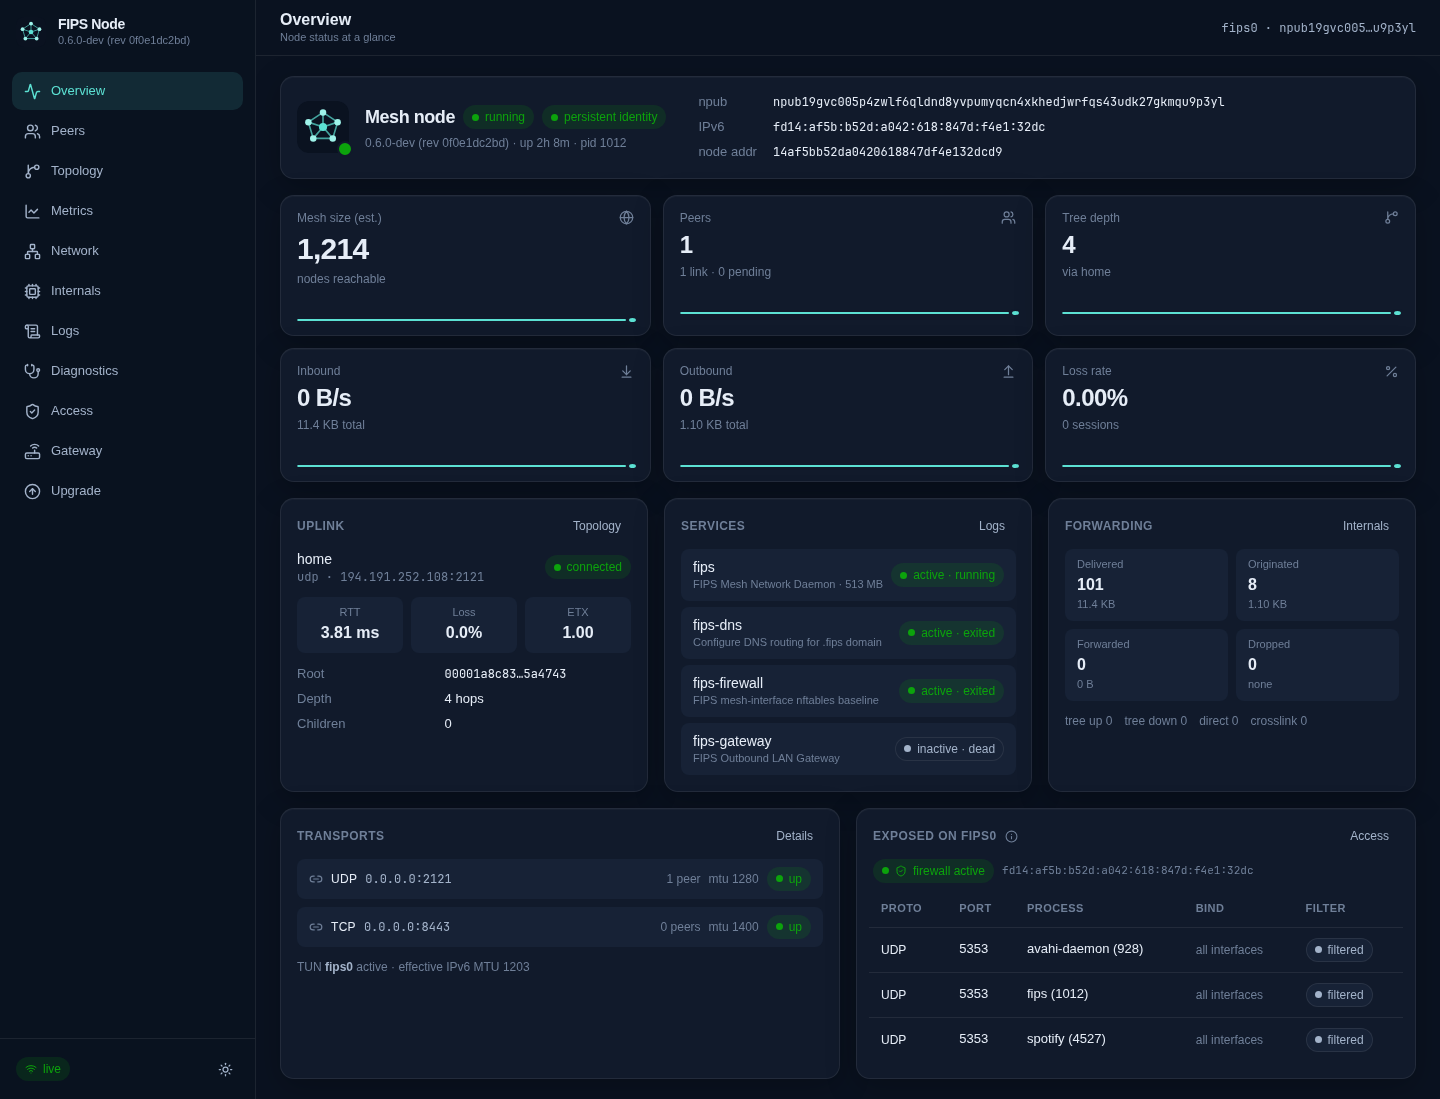
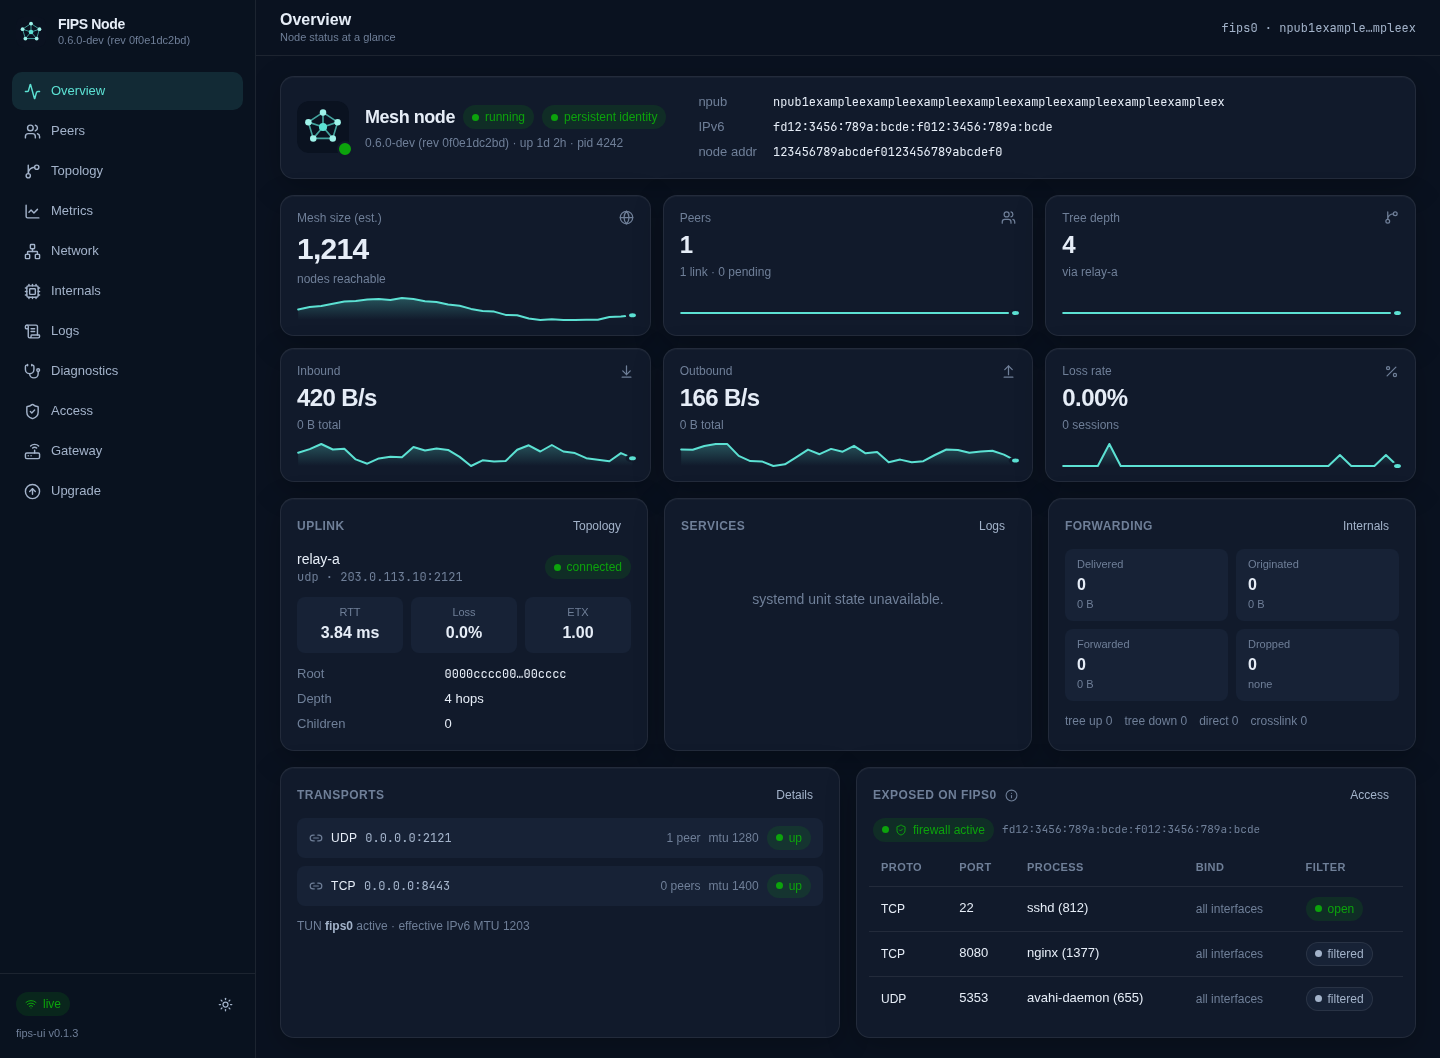
Replace node-specific data in screenshots and docs with placeholders
The README screenshots showed this node's npub, mesh and node addresses,
its peer's npub and public IP:port, tree coordinates, local processes and
the distro package. They are regenerated against a fake control socket
with placeholder identities (TEST-NET-3 address for the peer endpoint).
Genericise the hostname example in the README and the revision examples
in upgrade.ts comments.

diff --git a/server/upgrade.ts b/server/upgrade.ts
@@ -213,7 +213,7 @@ const isRoot = (): boolean => typeof process.getuid === 'function' ? process.get
 
 async function isElevatedWindows(): Promise<boolean> { return (await run('net', ['session'], { timeout: 5000 })).code === 0 }
 
-/** Parse "fips 0.6.0-dev (rev 0f0e1dc2bd)\ntarget: ..." */
+/** Parse "fips 0.6.0-dev (rev 1a2b3c4d5e)\ntarget: ..." */
 export interface ParsedVersion { version: string; rev?: string; revFull?: string; target?: string }
 /**
  * Parse `fips --version`. `rev` is the bare commit hash (what git and GitHub understand); `revFull` is the whole
@@ -226,7 +226,7 @@ export function parseVersionOutput(out: string): ParsedVersion | null {
   const revFull = m[2] ? `${m[2]}${(m[3] ?? '').trim() ? (m[3].trim().startsWith('-') ? '' : '-') + m[3].trim().replace(/^[,\s]+/, '') : ''}` : undefined
   return { version: m[1], rev: m[2], revFull, target: t?.[1] }
 }
-/** Canonical one-line rendering: `0.6.0-dev (rev 0f0e1dc2bd-dirty)`. */
+/** Canonical one-line rendering: `0.6.0-dev (rev 1a2b3c4d5e-dirty)`. */
 export function fmtVersion(v: { version?: string; rev?: string; revFull?: string } | null | undefined): string {
   if (!v?.version) return 'unknown'
   const r = v.revFull ?? v.rev

diff --git a/README.md b/README.md
@@ -74,7 +74,7 @@ Everything is via environment variables.
 | -------- | ------- | ------- |
 | `FIPS_UI_HOST` | `127.0.0.1` | Bind address. Only bind to a non-loopback address together with `FIPS_UI_TOKEN` or a reverse proxy that authenticates. |
 | `FIPS_UI_PORT` | `8321` | Port. |
-| `FIPS_UI_ALLOWED_HOSTS` | – | Comma-separated hostnames browsers may use to reach the UI, in addition to loopback and the bind address, e.g. `htpc.lan,node.fips`. Requests with any other `Host` are refused (DNS-rebinding protection). |
+| `FIPS_UI_ALLOWED_HOSTS` | – | Comma-separated hostnames browsers may use to reach the UI, in addition to loopback and the bind address, e.g. `mynode.lan,mynode.fips`. Requests with any other `Host` are refused (DNS-rebinding protection). |
 | `FIPS_UI_ACCESS_FILE` | `~/.config/fips-ui/access.json` | Mesh access settings and allowed npubs, managed from the Access page. |
 | `FIPS_UI_TOKEN` | – | When set, every API call needs `Authorization: Bearer <token>`; the UI prompts for it once and stores it in the browser. Put it in `/etc/default/fips-ui` (mode 0600), not in the unit file. |
 | `FIPS_UI_READ_ONLY` | – | `1` disables every mutating action (connect, disconnect, probe, service control, upgrade). |
